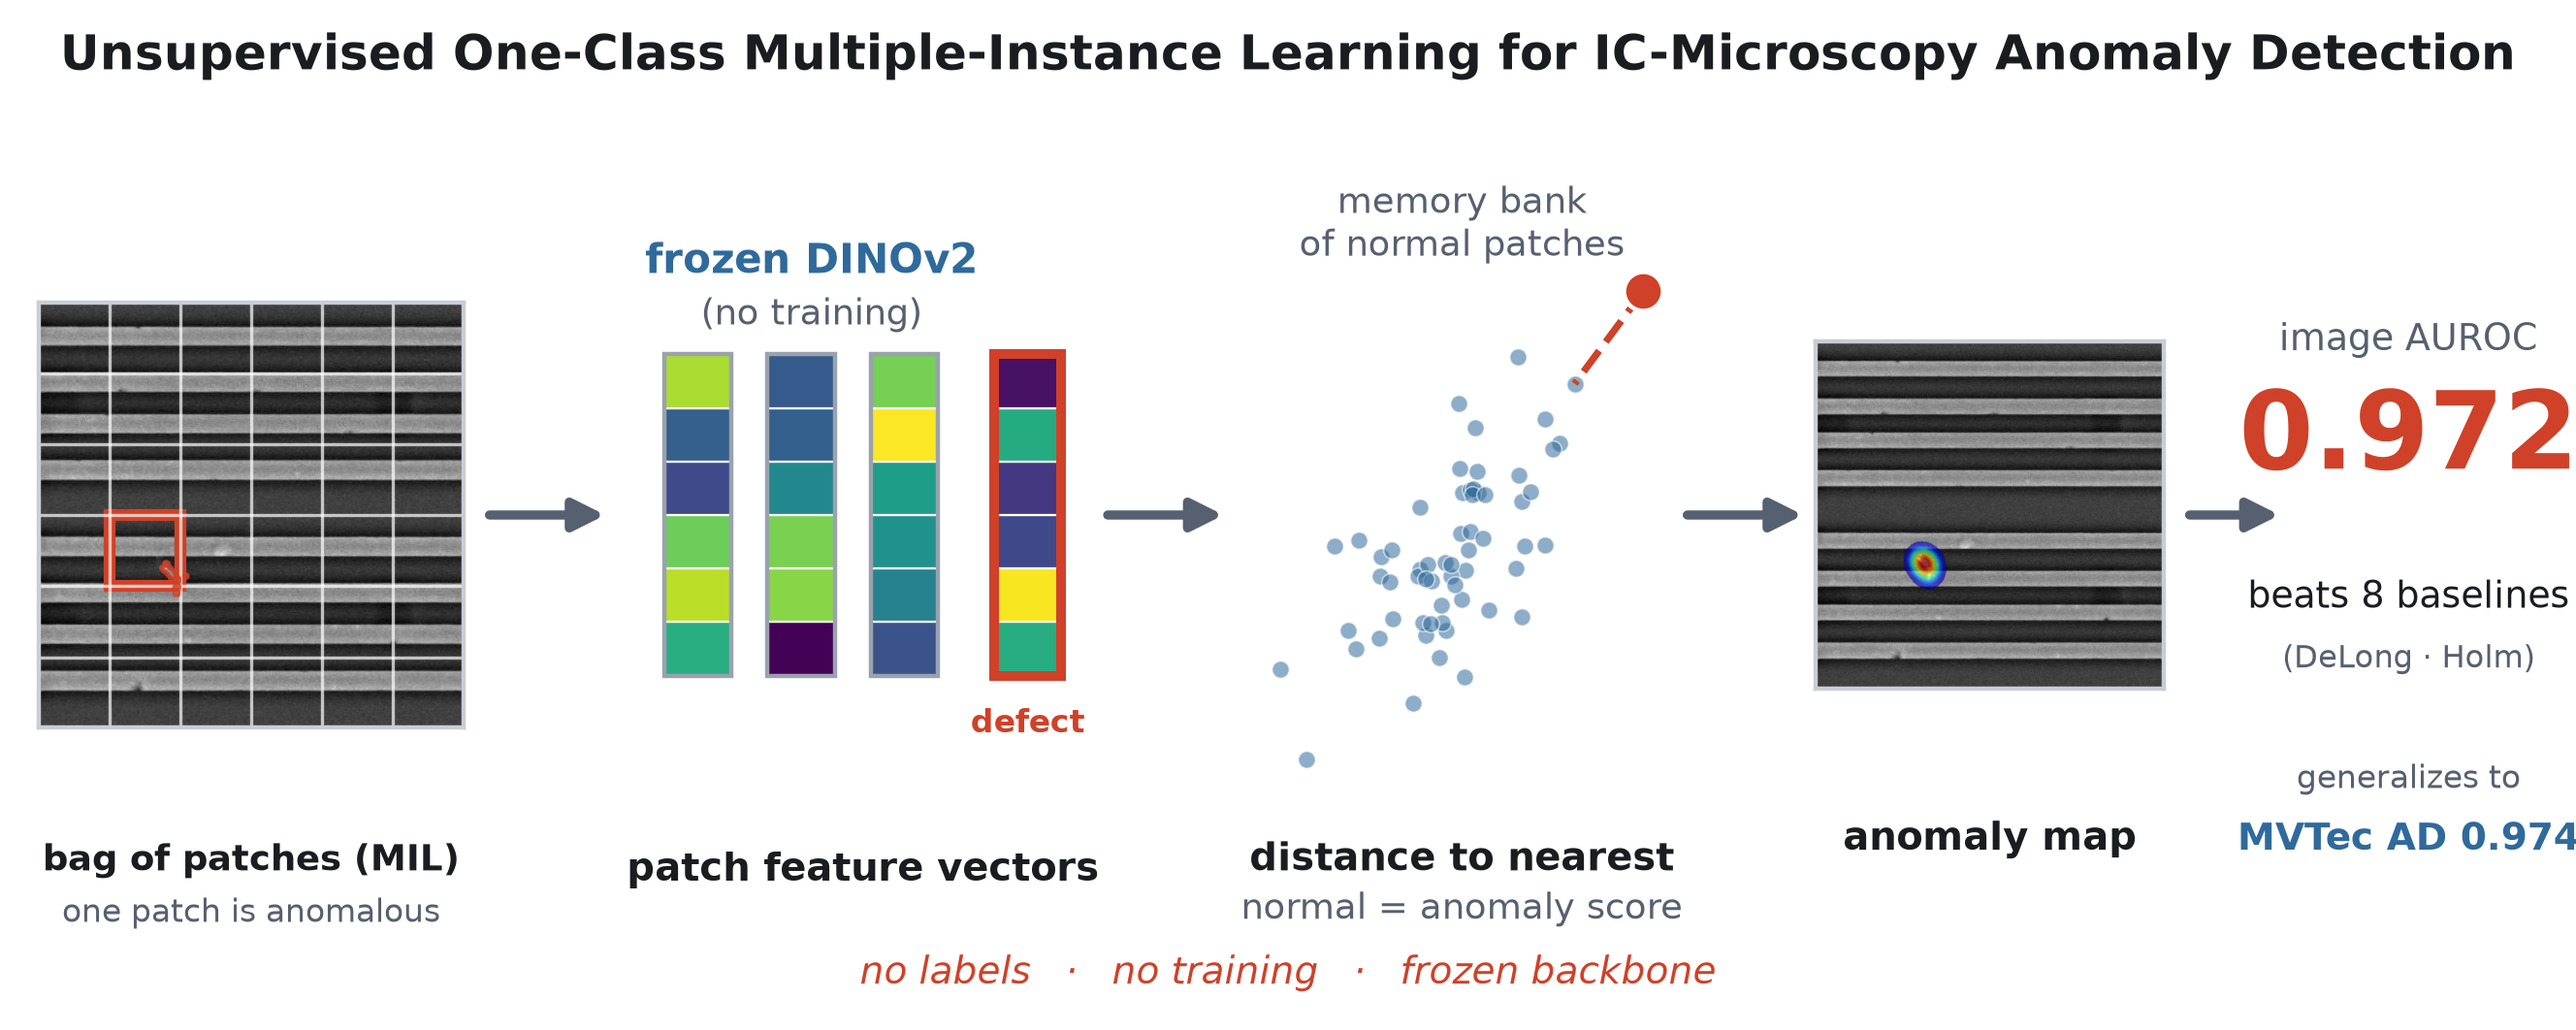
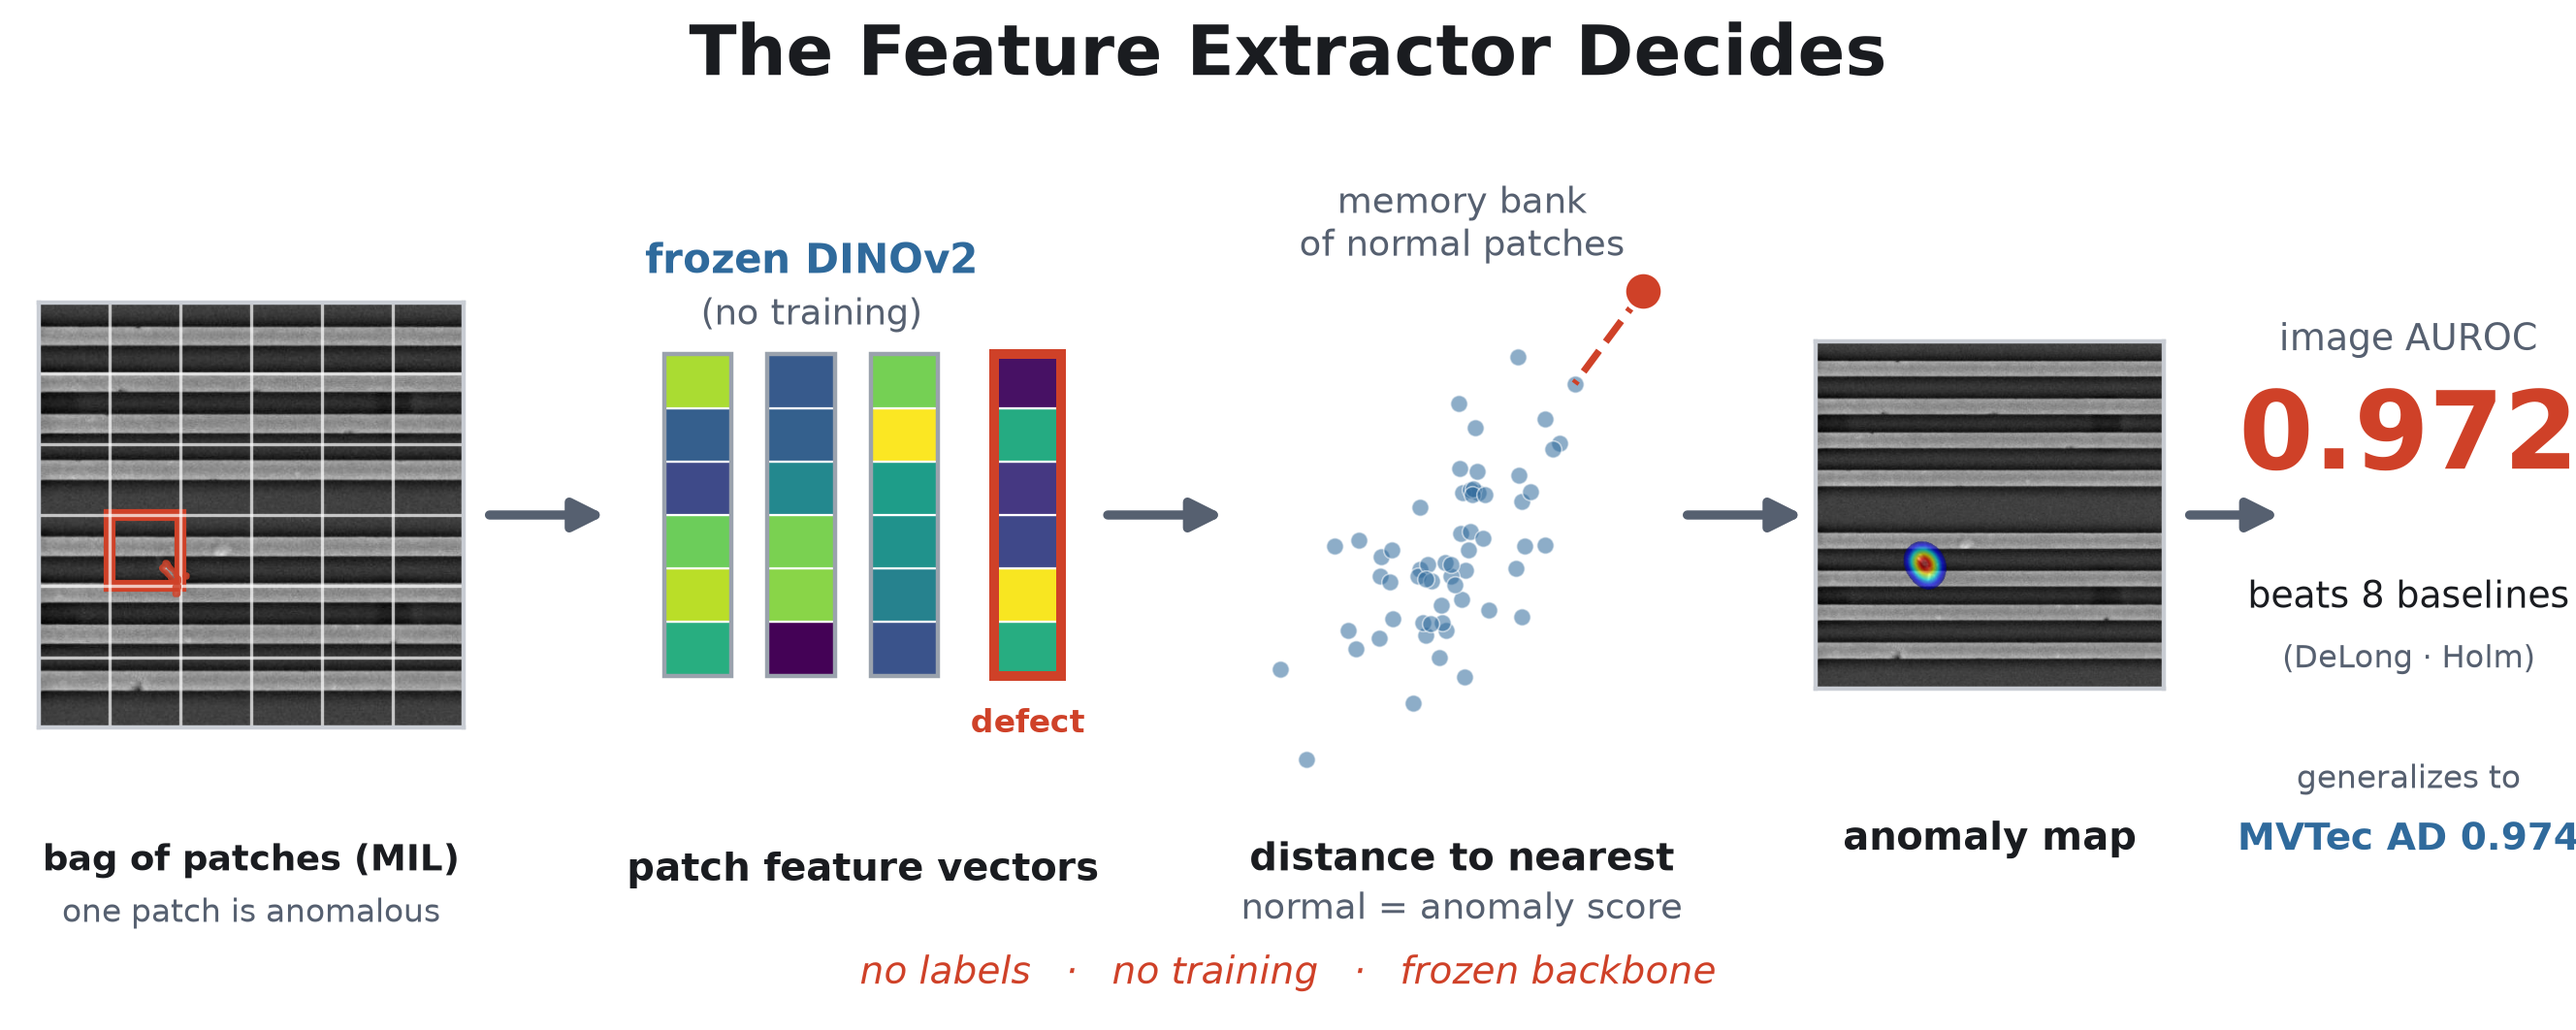
Match the graphical abstract headline to the paper title

Changed region(s): [[0.0, 0.0, 0.9688, 0.0932]]

diff --git a/scripts/plot_graphical_abstract.py b/scripts/plot_graphical_abstract.py
@@ -65,9 +65,9 @@ def main() -> None:
     fig.patch.set_facecolor("white")
     ax = fig.add_axes([0, 0, 1, 1]); ax.set_xlim(0, 1); ax.set_ylim(0, 1); ax.axis("off")
 
-    ax.text(0.5, 0.945, "Unsupervised One-Class Multiple-Instance Learning for "
-            "IC-Microscopy Anomaly Detection", ha="center", va="center",
-            fontsize=9.0, color=INK, fontweight="bold")
+    # Matches the paper title; the flow below already says what the method is.
+    ax.text(0.5, 0.945, "The Feature Extractor Decides", ha="center", va="center",
+            fontsize=13.0, color=INK, fontweight="bold")
 
     yc = 0.50  # vertical centre of the flow
 
